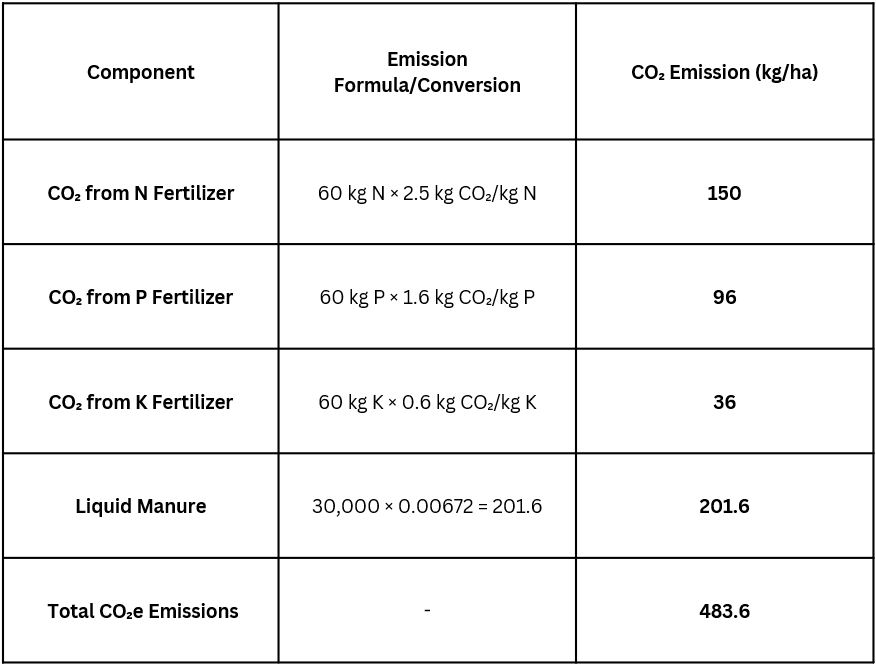
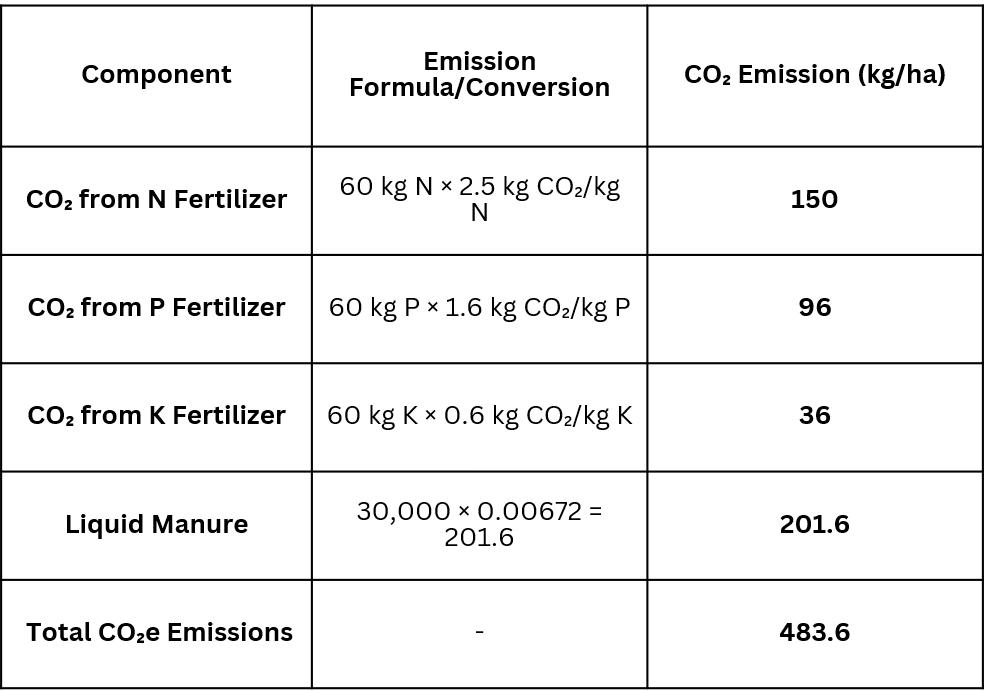
edited font size

diff --git a/content/intro.html b/content/intro.html
@@ -32,7 +32,7 @@
         </div>
 
         <div class="text" id="text_two">
-            <h1> 2. Hypothesis</h1>
+            <h1> 2. Our Idea</h1>
             <ul>
                 <li>We hypothesise that organic potato farming consumes less energy and produces fewer GHG emissions per unit area compared to highly intensive farming. This assumption is based on, </li>
                 <li>Reduced synthetic fertiliser use (lower N₂O emissions)<sup>3</sup>. </li>

diff --git a/styles/comparision.css b/styles/comparision.css
@@ -91,11 +91,11 @@ sup{
 }
 
 #pic_eight{
-    top: 640%;
+    top: 630%; left: 10%; width: 30%; height: auto;
 }
 
 #text_eight{
-    top:638%; 
+    top:630%; 
 }
 
 #pic_nine{
